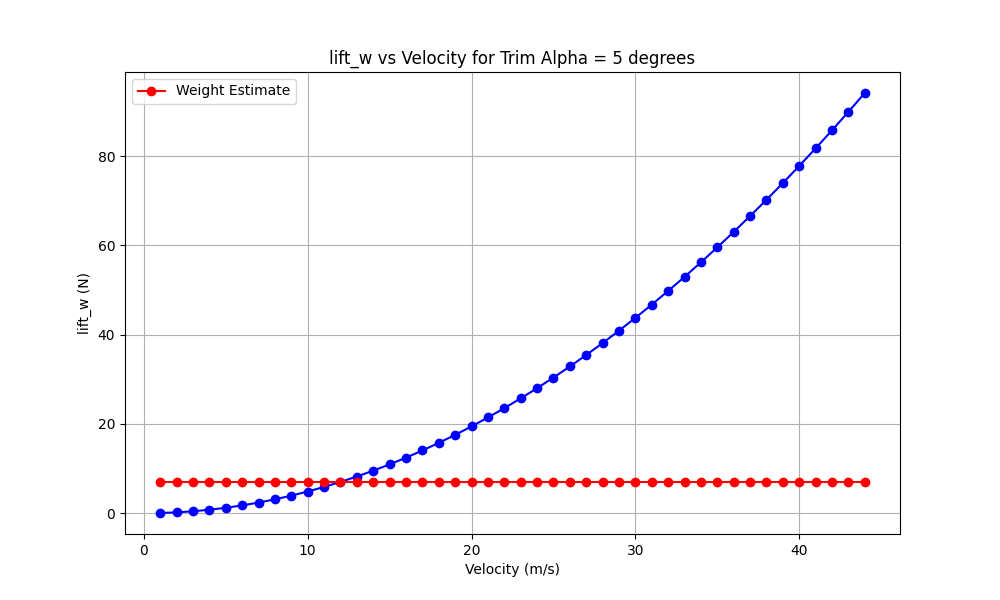
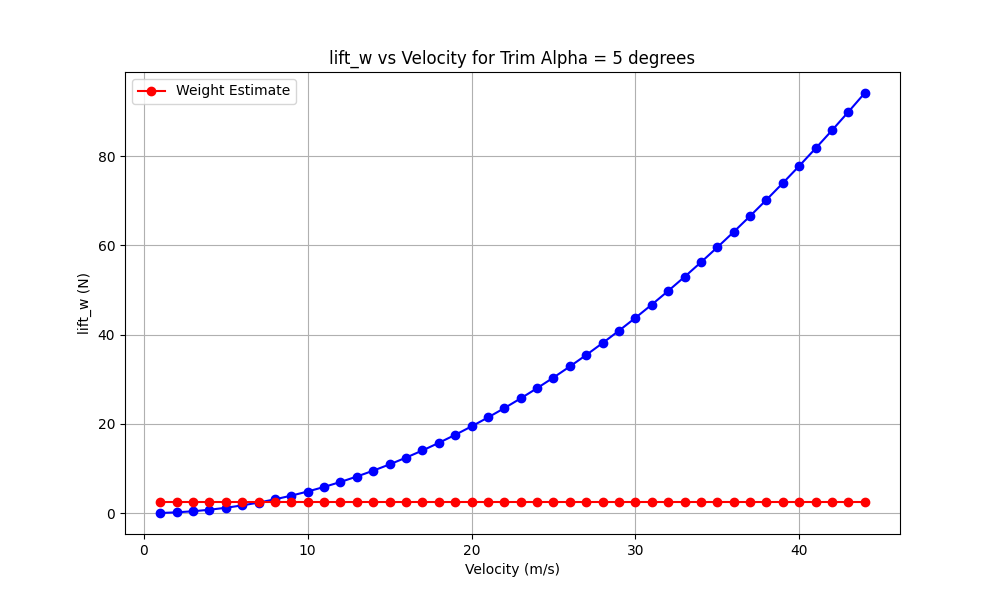
added stability calculations/plots

Changed region(s): [[0.155, 0.78, 0.868, 0.87]]

diff --git a/src/main.py b/src/main.py
@@ -27,6 +27,31 @@ alpha = np.array(data['Alpha'])
 
 ## Calculations 
 
+## Calculate the center of gravity of the aircraft
+
+# Define points of mass
+# Treat the "fuselage" tubes as massless
+
+m_prop = 47 + 24 # mass of motor and mount, grams
+x_prop = 0
+
+m_wing = 18 + 16*4 + 31 # mass of servos and wing pla, grams
+x_wing = np.linspace(0.05, 0.25, 100) # distance from propeller to wing, meters
+
+m_tail = 18 + 16*2 + 31# mass of servos and tail pla, grams
+x_tail = np.linspace(0.75, 1.5, 100) # distance from propeller to tail, meters
+
+x_cm = np.zeros((len(x_wing), len(x_tail)))
+
+for i, xw in enumerate(x_wing):
+  for j, xt in enumerate(x_tail):
+    cm = (m_prop*x_prop + m_wing*x_wing[i] + m_tail*x_tail[j]) / (m_prop + m_wing + m_tail) # center of mass
+    x_cm[i, j] = cm
+
+m_total = m_prop + m_wing + m_tail
+
+W_min = (m_total/1000) * 9.81 # minimum weight of the aircraft (N)
+
 #######################################################################################################
 ################################# Main Wing Body Calculations #########################################
 #######################################################################################################
@@ -116,17 +141,61 @@ L_D_t_arr = np.array(L_D_t_arr)
 
 # lw ==> distance from cg to wing aerodynamic center
 # lt ==> distance from cg to tail aerodynamic center
-lw = np.arange(0.05, 0.3,48)  #  2in to 1ft => UP FOR VARIATION
-lt = np.arange(0.3, 1.22, 48)  # 1ft to 4ft => UP FOR VARIATION
-i_t = 0  # Incidence angle of the tail (degrees) => UP FOR VARIATION
+lw = np.zeros((len(x_wing), len(x_tail)))
+lt = np.zeros((len(x_wing), len(x_tail)))
+
+for i in range(len(x_wing)):
+  xw = x_wing[i]
+  for j in range(len(x_tail)):
+    ltval = x_tail[j] - x_cm[i,j] - ((c/4)*.0254) # distance from cg to tail aerodynamic center (meters)
+    lt[i,j] = ltval
+
+    if xw > x_cm[i,j]:
+      lwval = xw - x_cm[i,j] + ((c/4)*.0254)
+    elif xw < x_cm[i,j]:
+      lwval = x_cm[i,j] - xw - ((c/4)*.0254)
+    else:
+      lwval = 0
+    lw[i,j] = lwval
+
 trim_alpha_w = 5  # Trim angle of attack for the wing (degrees)
-trim_alpha_t = 5 - i_t  # Trim angle of attack for the tail (degrees)
 
 # Calculations
 
-# for each lw, lt, calculate the i_t required for stability, at 20 m/s
+## Physical restraint: i_t = 0 - can't mount precise enough
+# so find l_w and l_t that give the stability when i_t is close to zero
 
+# Loop over lw and lt to calculate the stability at 10 m/s
 
+M = np.zeros((len(x_wing), len(x_tail)))
+
+for i in range(len(x_wing)):
+  for j in range(len(x_tail)):
+    lwval = lw[i,j]
+    ltval = lt[i,j]
+    # Calculate the moment about the center of gravity
+
+    if x_wing[i] > x_cm[i,j]:
+      M_w = lwval * lift_w_arr[np.where(trim_alpha == trim_alpha_w)[0][0], np.where(velocity == 10)[0][0]] * -1
+    elif x_wing[i] < x_cm[i,j]:
+      M_w = lwval * lift_w_arr[np.where(trim_alpha == trim_alpha_w)[0][0], np.where(velocity == 10)[0][0]]
+    else:
+      M_w = 0; 
+
+    M_t = ltval * lift_t_arr[np.where(trim_alpha == trim_alpha_w)[0][0], np.where(velocity == 10)[0][0]] * -1
+
+    # Append the moment to the main list
+    M[i,j] = M_w + M_t
+
+# Find the lw and lt values that give the stability when i_t is close to zero
+for i, momentarr in enumerate(M):
+  wingpos = x_wing[i]
+  for j, moment in enumerate(momentarr):
+    tailpos = x_tail[j]
+    if -0.0001 < moment < 0.0001:
+      print(f"xw: {wingpos}, xt: {tailpos}, M: {moment}")
+    
+    
 #######################################################################################################
 ########################################## Plotting Data ##############################################
 #######################################################################################################
@@ -170,7 +239,7 @@ plt.close()
 # Plot lift_w vs velocity for trim alpha = 5 degrees
 plt.figure(figsize=(10, 6))
 plt.plot(velocity, lift_w_arr[np.where(trim_alpha == 5)[0][0]], marker='o', linestyle='-', color='b')
-plt.plot(velocity, [W_est]*len(velocity), marker='o', linestyle='-', color='r', label='Weight Estimate')
+plt.plot(velocity, [W_min]*len(velocity), marker='o', linestyle='-', color='r', label='Weight Estimate')
 plt.title('lift_w vs Velocity for Trim Alpha = 5 degrees')
 plt.xlabel('Velocity (m/s)')
 plt.ylabel('lift_w (N)')
@@ -221,3 +290,20 @@ plt.grid(True)
 plt.savefig('plots/drag_t_vs_Velocity_5deg.png')
 plt.close()
 
+###### STABILITY DATA ######
+
+# Plot M vs x_wing and x_tail for 10m/s as a heatmap
+plt.figure(figsize=(10, 6))
+plt.imshow(M, cmap='coolwarm', interpolation='nearest')
+plt.colorbar()
+locsx, labelsx = plt.xticks()
+print(labelsx)
+locsy, labelsy = plt.yticks()
+plt.yticks(locsx, [0, round(x_tail[0], 2), round(x_tail[19], 2), round(x_tail[39], 2), round(x_tail[59], 2), round(x_tail[79], 2), round(x_tail[99], 2)])
+plt.xticks(locsy, [0, round(x_wing[0], 2), round(x_wing[19], 2), round(x_wing[39], 2), round(x_wing[59], 2), round(x_wing[79], 2), round(x_wing[99], 2)])
+plt.title('Moment (M) vs x_wing and x_tail for 10 m/s')
+plt.xlabel('x_wing')
+plt.ylabel('x_tao;')
+plt.grid(True)
+plt.savefig('plots/M_vs_x_wing_x_tail_10ms.png')
+plt.close()
